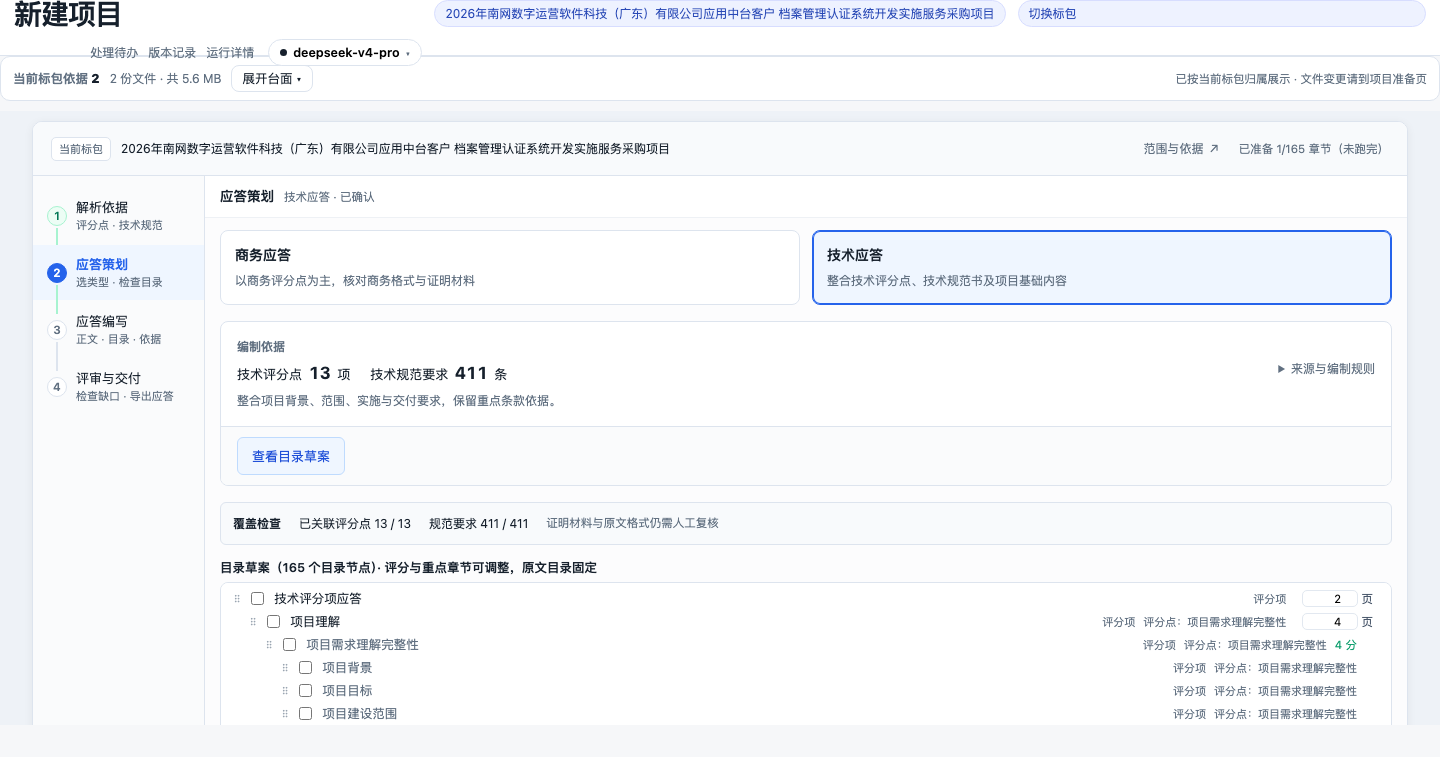
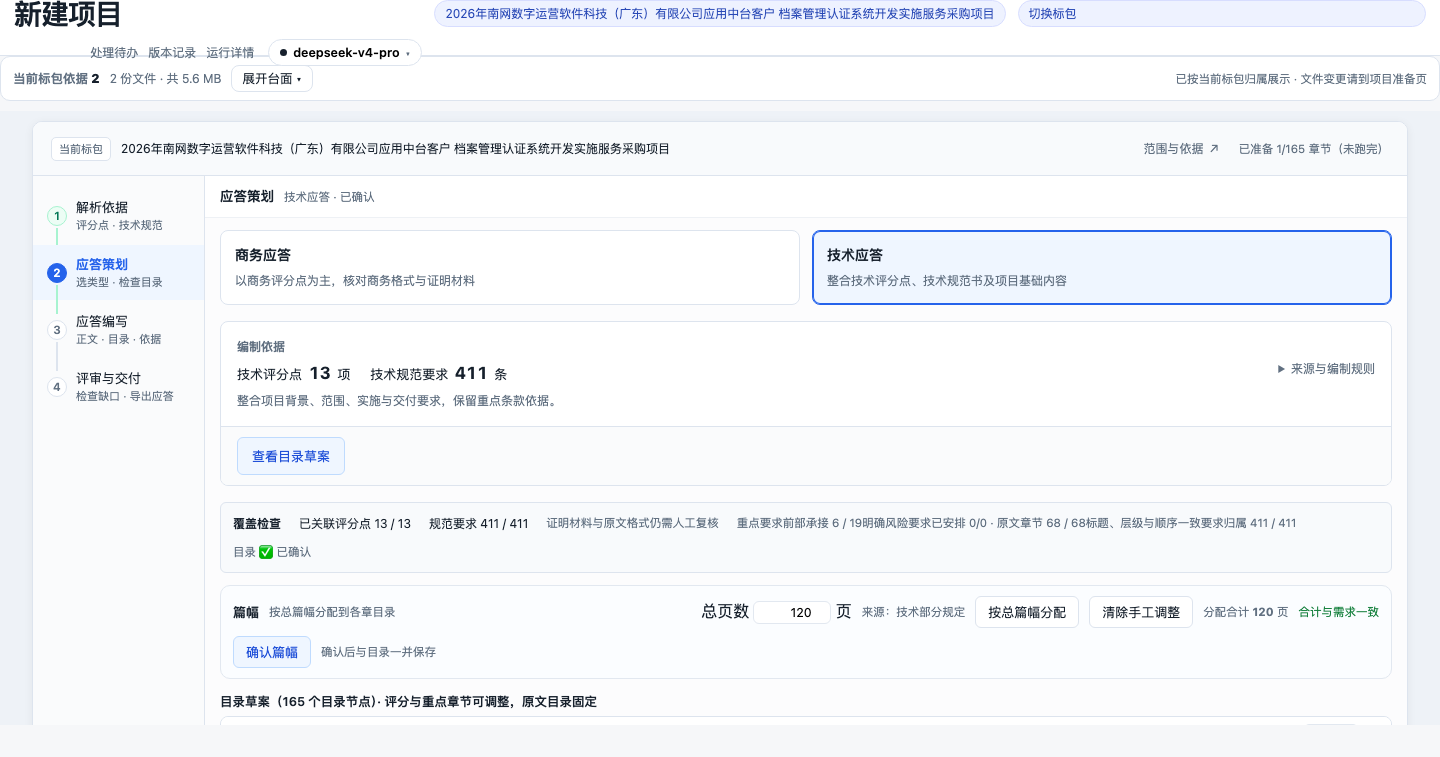
docs(design): 应答策划底部信息整合（PM 分析 + 落地）—— 篇幅上移、单一主操作、摘要合并
用户反馈：这一块信息很乱，要结合整页信息架构整合，做到结构清晰简洁；
篇幅的输出可以放在目录上面。

## 分析（三类信息被压成同一层卡片堆叠）
1. 双入口冲突：「目录已确认」卡带[进入技术应答编写]，下面又有[确认篇幅] —— 用户不知道点哪个算完
2. 同一结论说三遍：结构完整提示行 / 重点与点对点检查块 / 建议前部突出块
3. 篇幅条一行塞 8 件东西（总页数+来源+2 按钮+合计+校验+确认+说明）—— 与最早上传条"56px 塞 6 件事"同一毛病
4. 篇幅在目录下方，控制条与它管辖的 165 行隔了一屏，眼睛来回跳
5. 篇幅用 h5 小标题呈现，与上方卡片不同级，像"附属说明"而它其实是必须做的一步

## 落地（原型已改）
- **篇幅上移到目录之前**（实测 barTop 558 < dirTop 666），只留：总页数 + 来源 +
  按总篇幅分配 + 清除手工调整 + 分配合计 + 校验；页数仍落在目录每一行（165 行，18 行可填）
- **单一主操作随状态推进**：[确认篇幅] → 确认后隐藏它、显示产品原有的[进入技术应答编写]
  （未确认篇幅时该按钮不出现，消除双入口）
- **状态摘要只留一处**：把「重点与点对点检查」的 5 项事实并入「覆盖检查」一行，并补「目录 ✅ 已确认」

## 实测
篇幅在目录之上 ✅；确认篇幅前 [进入技术应答编写] 不可见、确认后出现 ✅；
覆盖检查行含 5 项事实 + 目录已确认 ✅；165 行列、18 行可编辑、合计 120 ✅；无 JS 错误

## 遗留（如实记录）
并入摘要的事实串分隔符只补了一半（"6 / 19明确风险…"仍粘连），是原型里的文案拼接问题，
正式实现时应由服务端结构化成字段渲染，而不是拼字符串。

Changed region(s): [[0.4688, 0.7596, 0.9688, 0.9723], [0.1562, 0.6988, 0.4375, 0.9723], [0.5, 0.6684, 0.9062, 0.6988]]

diff --git a/docs/design/mockups/prod-prototype.html b/docs/design/mockups/prod-prototype.html
@@ -9263,7 +9263,21 @@ GB/T 35274-2023《数据安全技术 大数据服务安全能力要求》
     <div class="response-coverage"><strong>覆盖检查</strong><span>已关联评分点 13 / 13</span><span>规范要求 411 / 411</span><span class="sr-dim">证明材料与原文格式仍需人工复核</span></div>
       
       
-      <h5 class="sr-sec">目录草案（165 个目录节点）· 评分与重点章节可调整，原文目录固定</h5>
+      
+      <div id="budgetBar" style="border:1px solid #e2e8f0;border-radius:10px;padding:10px 12px;margin:10px 0 12px;background:#fbfdff">
+        <div style="display:flex;align-items:center;gap:10px;flex-wrap:wrap">
+          <b style="font-size:13px">篇幅</b>
+          <span class="sr-dim">按总篇幅分配到各章目录</span>
+          <span style="flex:1"></span>
+          <span>总页数 <input type="number" id="totalPg" value="120" style="width:78px;font:inherit;font-size:12.5px;padding:3px 8px;border:1px solid #e2e8f0;border-radius:6px;text-align:right" /> 页</span>
+          <span class="sr-dim">来源：技术部分规定</span>
+          <button class="mw-btn" id="btnAlloc">按总篇幅分配</button>
+          <button class="mw-btn" id="btnResetAlloc">清除手工调整</button>
+          <span class="sr-dim" id="sumLine"></span>
+          <span class="sr-dim" id="sumBanner">合计与需求一致</span>
+        </div>
+      </div>
+<h5 class="sr-sec">目录草案（165 个目录节点）· 评分与重点章节可调整，原文目录固定</h5>
       <div class="sr-batch is-empty" id="sr-batch">
         <span class="sr-dim">已选 <b id="sr-batch-n">0</b> 项</span>
         <button class="sr-mini" data-batch="up">批量上移</button>
@@ -11925,21 +11939,7 @@ GB/T 35274-2023《数据安全技术 大数据服务安全能力要求》
       <details class="response-mapping"><summary>查看章节与原文依据映射</summary><div class="response-map-row"><strong>项目理解</strong><span>项目需求理解完整性</span><span class="sr-dim">0 条规范要求</span></div><div class="response-map-row"><strong>项目需求理解完整性</strong><span>项目需求理解完整性</span><span class="sr-dim">0 条规范要求</span></div><div class="response-map-row"><strong>项目背景</strong><span>项目需求理解完整性</span><span class="sr-dim">0 条规范要求</span></div><div class="response-map-row"><strong>项目目标</strong><span>项目需求理解完整性</span><span class="sr-dim">0 条规范要求</span></div><div class="response-map-row"><strong>项目建设范围</strong><span>项目需求理解完整性</span><span class="sr-dim">0 条规范要求</span></div><div class="response-map-row"><strong>项目需求及特点</strong><span>项目需求理解完整性</span><span class="sr-dim">0 条规范要求</span></div><div class="response-map-row"><strong>项目需求理解逻辑性、合理性</strong><span>项目需求理解逻辑性、合理性</span><span class="sr-dim">0 条规范要求</span></div><div class="response-map-row"><strong>项目需求理解逻辑性</strong><span>项目需求理解逻辑性、合理性</span><span class="sr-dim">0 条规范要求</span></div><div class="response-map-row"><strong>项目需求理解合理性</strong><span>项目需求理解逻辑性、合理性</span><span class="sr-dim">0 条规范要求</span></div><div class="response-map-row"><strong>项目背景认识</strong><span>项目需求理解逻辑性、合理性</span><span class="sr-dim">0 条规范要求</span></div><div class="response-map-row"><strong>项目目标认识</strong><span>项目需求理解逻辑性、合理性</span><span class="sr-dim">0 条规范要求</span></div><div class="response-map-row"><strong>建设范围认识</strong><span>项目需求理解逻辑性、合理性</span><span class="sr-dim">0 条规范要求</span></div><div class="response-map-row"><strong>项目需求及特点认识</strong><span>项目需求理解逻辑性、合理性</span><span class="sr-dim">0 条规范要求</span></div><div class="response-map-row"><strong>分析全面准确性</strong><span>项目需求理解逻辑性、合理性</span><span class="sr-dim">0 条规范要求</span></div><div class="response-map-row"><strong>描述清晰详细性</strong><span>项目需求理解逻辑性、合理性</span><span class="sr-dim">0 条规范要求</span></div><div class="response-map-row"><strong>项目重难点分析及解决方案的完整性</strong><span>项目重难点分析及解决方案的完整性</span><span class="sr-dim">0 条规范要求</span></div><div class="response-map-row"><strong>重点分析</strong><span>项目重难点分析及解决方案的完整性</span><span class="sr-dim">0 条规范要求</span></div><div class="response-map-row"><strong>难点分析</strong><span>项目重难点分析及解决方案的完整性</span><span class="sr-dim">0 条规范要求</span></div><div class="response-map-row"><strong>解决方案及措施</strong><span>项目重难点分析及解决方案的完整性</span><span class="sr-dim">0 条规范要求</span></div><div class="response-map-row"><strong>功能实现方案</strong><span>项目重难点分析及解决方案的完整性</span><span class="sr-dim">0 条规范要求</span></div><div class="response-map-row"><strong>项目重难点</strong><span>项目重难点</span><span class="sr-dim">0 条规范要求</span></div><div class="response-map-row"><strong>项目重难点分析</strong><span>项目重难点</span><span class="sr-dim">0 条规范要求</span></div><div class="response-map-row"><strong>解决方案</strong><span>项目重难点</span><span class="sr-dim">0 条规范要求</span></div><div class="response-map-row"><strong>方案科学性</strong><span>项目重难点</span><span class="sr-dim">0 条规范要求</span></div><div class="response-map-row"><strong>方案合理性</strong><span>项目重难点</span><span class="sr-dim">0 条规范要求</span></div><div class="response-map-row"><strong>方案先进性</strong><span>项目重难点</span><span class="sr-dim">0 条规范要求</span></div><div class="response-map-row"><strong>方案可靠性</strong><span>项目重难点</span><span class="sr-dim">0 条规范要求</span></div><div class="response-map-row"><strong>招标文件要求理解</strong><span>项目重难点</span><span class="sr-dim">0 条规范要求</span></div><div class="response-map-row"><strong>描述清晰详细</strong><span>项目重难点</span><span class="sr-dim">0 条规范要求</span></div><div class="response-map-row"><strong>项目进度计划</strong><span>进度计划及保障措施</span><span class="sr-dim">0 条规范要求</span></div><div class="response-map-row"><strong>进度计划及保障措施</strong><span>进度计划及保障措施</span><span class="sr-dim">0 条规范要求</span></div><div class="response-map-row"><strong>进度计划分解</strong><span>进度计划及保障措施</span><span class="sr-dim">0 条规范要求</span></div><div class="response-map-row"><strong>计划合理可行</strong><span>进度计划及保障措施</span><span class="sr-dim">0 条规范要求</span></div><div class="response-map-row"><strong>满足项目建设要求</strong><span>进度计划及保障措施</span><span class="sr-dim">0 条规范要求</span></div><div class="response-map-row"><strong>描述详细</strong><span>进度计划及保障措施</span><span class="sr-dim">0 条规范要求</span></div><div class="response-map-row"><strong>进度保障措施</strong><span>进度计划及保障措施</span><span class="sr-dim">0 条规范要求</span></div><div class="response-map-row"><strong>可操作性强</strong><span>进度计划及保障措施</span><span class="sr-dim">0 条规范要求</span></div><div class="response-map-row"><strong>项目团队人员</strong><span>团队人员学历情况</span><span class="sr-dim">0 条规范要求</span></div><div class="response-map-row"><strong>团队人员学历情况</strong><span>团队人员学历情况</span><span class="sr-dim">0 条规范要求</span></div><div class="response-map-row"><strong>项目团队本科及以上学历人数</strong><span>团队人员学历情况</span><span class="sr-dim">0 条规范要求</span></div><div class="response-map-row"><strong>连续6个月社保缴纳证明</strong><span>团队人员学历情况</span><span class="sr-dim">0 条规范要求</span></div><div class="response-map-row"><strong>学历、学位证书</strong><span>团队人员学历情况</span><span class="sr-dim">0 条规范要求</span></div><div class="response-map-row"><strong>学信网认证证明</strong><span>团队人员学历情况</span><span class="sr-dim">0 条规范要求</span></div><div class="response-map-row"><strong>学历真实性承诺</strong><span>团队人员学历情况</span><span class="sr-dim">0 条规范要求</span></div><div class="response-map-row"><strong>国（境）外学位证书</strong><span>团队人员学历情况</span><span class="sr-dim">0 条规范要求</span></div><div class="response-map-row"><strong>国外学历学位认证书</strong><span>团队人员学历情况</span><span class="sr-dim">0 条规范要求</span></div><div class="response-map-row"><strong>项目负责人</strong><span>项目负责人</span><span class="sr-dim">0 条规范要求</span></div><div class="response-map-row"><strong>项目负责人资格证书</strong><span>项目负责人</span><span class="sr-dim">0 条规范要求</span></div><div class="response-map-row"><strong>同类项目负责人经验</strong><span>项目负责人</span><span class="sr-dim">0 条规范要求</span></div><div class="response-map-row"><strong>项目负责人简历</strong><span>项目负责人</span><span class="sr-dim">0 条规范要求</span></div><div class="response-map-row"><strong>连续6个月社保证明</strong><span>项目负责人</span><span class="sr-dim">0 条规范要求</span></div><div class="response-map-row"><strong>相关项目合同证明文件</strong><span>项目负责人</span><span class="sr-dim">0 条规范要求</span></div><div class="response-map-row"><strong>团队其他成员相关经验情况</strong><span>团队其他成员相关经验情况</span><span class="sr-dim">0 条规范要求</span></div><div class="response-map-row"><strong>团队其他成员同类项目经验</strong><span>团队其他成员相关经验情况</span><span class="sr-dim">0 条规范要求</span></div><div class="response-map-row"><strong>同类项目经验界定</strong><span>团队其他成员相关经验情况</span><span class="sr-dim">0 条规范要求</span></div><div class="response-map-row"><strong>合同关键页复印件</strong><span>团队其他成员相关经验情况</span><span class="sr-dim">0 条规范要求</span></div><div class="response-map-row"><strong>合同关键页内容要素</strong><span>团队其他成员相关经验情况</span><span class="sr-dim">0 条规范要求</span></div><div class="response-map-row"><strong>甲方出具证明材料</strong><span>团队其他成员相关经验情况</span><span class="sr-dim">0 条规范要求</span></div><div class="response-map-row"><strong>项目团队其他成员资质证书情况</strong><span>项目团队其他成员资质证书情况</span><span class="sr-dim">0 条规范要求</span></div><div class="response-map-row"><strong>团队其他成员配置</strong><span>项目团队其他成员资质证书情况</span><span class="sr-dim">0 条规范要求</span></div><div class="response-map-row"><strong>一类资质证书</strong><span>项目团队其他成员资质证书情况</span><span class="sr-dim">0 条规范要求</span></div><div class="response-map-row"><strong>二类资质证书</strong><span>项目团队其他成员资质证书情况</span><span class="sr-dim">0 条规范要求</span></div><div class="response-map-row"><strong>证书证明材料</strong><span>项目团队其他成员资质证书情况</span><span class="sr-dim">0 条规范要求</span></div><div class="response-map-row"><strong>项目业绩</strong><span>经验案例</span><span class="sr-dim">0 条规范要求</span></div><div class="response-map-row"><strong>经验案例</strong><span>经验案例</span><span class="sr-dim">0 条规范要求</span></div><div class="response-map-row"><strong>近三年项目业绩</strong><span>经验案例</span><span class="sr-dim">0 条规范要求</span></div><div class="response-map-row"><strong>信息化领域同类型项目</strong><span>经验案例</span><span class="sr-dim">0 条规范要求</span></div><div class="response-map-row"><strong>项目金额规模</strong><span>经验案例</span><span class="sr-dim">0 条规范要求</span></div><div class="response-map-row"><strong>信息系统开发实施类项目</strong><span>经验案例</span><span class="sr-dim">0 条规范要求</span></div><div class="response-map-row"><strong>中标通知书</strong><span>经验案例</span><span class="sr-dim">0 条规范要求</span></div><div class="response-map-row"><strong>合同关键页扫描件</strong><span>经验案例</span><span class="sr-dim">0 条规范要求</span></div><div class="response-map-row"><strong>开发要求</strong><span>功能要求</span><span class="sr-dim">0 条规范要求</span></div><div class="response-map-row"><strong>功能要求</strong><span>功能要求</span><span class="sr-dim">0 条规范要求</span></div><div class="response-map-row"><strong>技术规范书功能要求响应</strong><span>功能要求</span><span class="sr-dim">0 条规范要求</span></div><div class="response-map-row"><strong>功能拓展或优化</strong><span>功能要求</span><span class="sr-dim">0 条规范要求</span></div><div class="response-map-row"><strong>优于项佐证材料</strong><span>功能要求</span><span class="sr-dim">0 条规范要求</span></div><div class="response-map-row"><strong>原型截图或测试报告</strong><span>功能要求</span><span class="sr-dim">0 条规范要求</span></div><div class="response-map-row"><strong>技术实现方案</strong><span>工作方案的完整性</span><span class="sr-dim">0 条规范要求</span></div><div class="response-map-row"><strong>工作方案的完整性</strong><span>工作方案的完整性</span><span class="sr-dim">0 条规范要求</span></div><div class="response-map-row"><strong>代码编写</strong><span>工作方案的完整性</span><span class="sr-dim">0 条规范要求</span></div><div class="response-map-row"><strong>测试工作</strong><span>工作方案的完整性</span><span class="sr-dim">0 条规范要求</span></div><div class="response-map-row"><strong>集成工作</strong><span>工作方案的完整性</span><span class="sr-dim">0 条规范要求</span></div><div class="response-map-row"><strong>技术质量管理方案</strong><span>工作方案的完整性</span><span class="sr-dim">0 条规范要求</span></div><div class="response-map-row"><strong>工作方案的科学性、合理性、先进性、可靠性</strong><span>工作方案的科学性、合理性、先进性、可靠性</span><span class="sr-dim">0 条规范要求</span></div><div class="response-map-row"><strong>项目技术工作方案</strong><span>工作方案的科学性、合理性、先进性、可靠性</span><span class="sr-dim">0 条规范要求</span></div><div class="response-map-row"><strong>方案科学性</strong><span>工作方案的科学性、合理性、先进性、可靠性</span><span class="sr-dim">0 条规范要求</span></div><div class="response-map-row"><strong>方案合理性</strong><span>工作方案的科学性、合理性、先进性、可靠性</span><span class="sr-dim">0 条规范要求</span></div><div class="response-map-row"><strong>方案先进性</strong><span>工作方案的科学性、合理性、先进性、可靠性</span><span class="sr-dim">0 条规范要求</span></div><div class="response-map-row"><strong>方案可靠性</strong><span>工作方案的科学性、合理性、先进性、可靠性</span><span class="sr-dim">0 条规范要求</span></div><div class="response-map-row"><strong>项目技术要求响应</strong><span>工作方案的科学性、合理性、先进性、可靠性</span><span class="sr-dim">0 条规范要求</span></div><div class="response-map-row"><strong>技术成熟度</strong><span>工作方案的科学性、合理性、先进性、可靠性</span><span class="sr-dim">0 条规范要求</span></div><div class="response-map-row"><strong>方案可扩展性</strong><span>工作方案的科学性、合理性、先进性、可靠性</span><span class="sr-dim">0 条规范要求</span></div><div class="response-map-row"><strong>7. 其他</strong><span>工作方案的科学性、合理性、先进性、可靠性</span><span class="sr-dim">1 条规范要求</span></div><div class="response-map-row"><strong>3.4.2. ★自主可控要求</strong><span>技术规范要求</span><span class="sr-dim">5 条规范要求</span></div><div class="response-map-row"><strong>1.2.2. 计划工期</strong><span>技术规范要求</span><span class="sr-dim">1 条规范要求</span></div><div class="response-map-row"><strong>1.3. 对技术投标文件的编制要求</strong><span>技术规范要求</span><span class="sr-dim">1 条规范要求</span></div><div class="response-map-row"><strong>一、综述</strong><span>技术规范要求</span><span class="sr-dim">1 条规范要求</span></div><div class="response-map-row"><strong>二、工作方案</strong><span>技术规范要求</span><span class="sr-dim">1 条规范要求</span></div><div class="response-map-row"><strong>三、售后服务及技术支持</strong><span>技术规范要求</span><span class="sr-dim">1 条规范要求</span></div><div class="response-map-row"><strong>四、项目管理</strong><span>技术规范要求</span><span class="sr-dim">9 条规范要求</span></div><div class="response-map-row"><strong>五、其他</strong><span>技术规范要求</span><span class="sr-dim">3 条规范要求</span></div><div class="response-map-row"><strong>2.3. 项目范围</strong><span>技术规范要求</span><span class="sr-dim">1 条规范要求</span></div><div class="response-map-row"><strong>2.4. 项目依据</strong><span>技术规范要求</span><span class="sr-dim">1 条规范要求</span></div><div class="response-map-row"><strong>3. 项目服务内容及要求</strong><span>技术规范要求</span><span class="sr-dim">4 条规范要求</span></div><div class="response-map-row"><strong>3.2. 功能要求</strong><span>技术规范要求</span><span class="sr-dim">1 条规范要求</span></div><div class="response-map-row"><strong>3.2.1. 客户档案管理模块</strong><span>技术规范要求</span><span class="sr-dim">141 条规范要求</span></div><div class="response-map-row"><strong>3.2.2. 客户标签管理模块</strong><span>技术规范要求</span><span class="sr-dim">75 条规范要求</span></div><div class="response-map-row"><strong>3.2.3. 客户全景视图管理模块</strong><span>技术规范要求</span><span class="sr-dim">54 条规范要求</span></div><div class="response-map-row"><strong>3.2.4. 客户行为管理模块</strong><span>技术规范要求</span><span class="sr-dim">18 条规范要求</span></div><div class="response-map-row"><strong>3.2.5. 客户认证管理模块</strong><span>技术规范要求</span><span class="sr-dim">6 条规范要求</span></div><div class="response-map-row"><strong>3.2.6. 客户关系管理模块</strong><span>技术规范要求</span><span class="sr-dim">44 条规范要求</span></div><div class="response-map-row"><strong>3.2.7. 业务档案管理模块</strong><span>技术规范要求</span><span class="sr-dim">9 条规范要求</span></div><div class="response-map-row"><strong>3.4.1. 技术管控要求</strong><span>技术规范要求</span><span class="sr-dim">1 条规范要求</span></div><div class="response-map-row"><strong>3.4.2. ★自主可控要求</strong><span>技术规范要求</span><span class="sr-dim">5 条规范要求</span></div><div class="response-map-row"><strong>4. 项目实施</strong><span>技术规范要求</span><span class="sr-dim">4 条规范要求</span></div><div class="response-map-row"><strong>4.1. 组织保障要求</strong><span>技术规范要求</span><span class="sr-dim">1 条规范要求</span></div><div class="response-map-row"><strong>4.2. 项目组织人员要求</strong><span>技术规范要求</span><span class="sr-dim">1 条规范要求</span></div><div class="response-map-row"><strong>4.2.1. 项目经理要求</strong><span>技术规范要求</span><span class="sr-dim">1 条规范要求</span></div><div class="response-map-row"><strong>4.2.2. 项目服务团队要求</strong><span>技术规范要求</span><span class="sr-dim">1 条规范要求</span></div><div class="response-map-row"><strong>4.3.1. 总体进度要求</strong><span>技术规范要求</span><span class="sr-dim">1 条规范要求</span></div><div class="response-map-row"><strong>4.3.2. 进度管理要求</strong><span>技术规范要求</span><span class="sr-dim">2 条规范要求</span></div><div class="response-map-row"><strong>4.4.1. 项目例会</strong><span>技术规范要求</span><span class="sr-dim">1 条规范要求</span></div><div class="response-map-row"><strong>4.4.2. 项目联络会</strong><span>技术规范要求</span><span class="sr-dim">1 条规范要求</span></div><div class="response-map-row"><strong>4.5. 质量要求</strong><span>技术规范要求</span><span class="sr-dim">1 条规范要求</span></div><div class="response-map-row"><strong>4.6.1. 验收标准</strong><span>技术规范要求</span><span class="sr-dim">1 条规范要求</span></div><div class="response-map-row"><strong>4.6.2. 验收方法</strong><span>技术规范要求</span><span class="sr-dim">1 条规范要求</span></div><div class="response-map-row"><strong>4.6.3. 初步验收</strong><span>技术规范要求</span><span class="sr-dim">1 条规范要求</span></div><div class="response-map-row"><strong>4.6.4. 竣工验收</strong><span>技术规范要求</span><span class="sr-dim">1 条规范要求</span></div><div class="response-map-row"><strong>4.8.1. 培训要求</strong><span>技术规范要求</span><span class="sr-dim">1 条规范要求</span></div><div class="response-map-row"><strong>4.8.2. 培训方式</strong><span>技术规范要求</span><span class="sr-dim">3 条规范要求</span></div><div class="response-map-row"><strong>4.8.3. 现场培训</strong><span>技术规范要求</span><span class="sr-dim">1 条规范要求</span></div><div class="response-map-row"><strong>4.8.4. 其他培训要求</strong><span>技术规范要求</span><span class="sr-dim">1 条规范要求</span></div><div class="response-map-row"><strong>5. 项目售后服务和技术支持</strong><span>技术规范要求</span><span class="sr-dim">1 条规范要求</span></div><div class="response-map-row"><strong>5.1. 售后服务总体要求</strong><span>技术规范要求</span><span class="sr-dim">1 条规范要求</span></div><div class="response-map-row"><strong>5.2. 应急预案</strong><span>技术规范要求</span><span class="sr-dim">1 条规范要求</span></div><div class="response-map-row"><strong>5.4.1. 技术维护支持服务</strong><span>技术规范要求</span><span class="sr-dim">1 条规范要求</span></div><div class="response-map-row"><strong>5.4.2. 维护工具</strong><span>技术规范要求</span><span class="sr-dim">1 条规范要求</span></div><div class="response-map-row"><strong>6. 安全保密要求</strong><span>技术规范要求</span><span class="sr-dim">1 条规范要求</span></div><div class="response-map-row"><strong>6.1. 个人信息提供</strong><span>技术规范要求</span><span class="sr-dim">1 条规范要求</span></div><div class="response-map-row"><strong>6.2. 行为规范</strong><span>技术规范要求</span><span class="sr-dim">1 条规范要求</span></div><div class="response-map-row"><strong>7. 其他</strong><span>技术规范要求</span><span class="sr-dim">1 条规范要求</span></div><div class="response-map-row"><strong>8. 效力说明</strong><span>技术规范要求</span><span class="sr-dim">1 条规范要求</span></div></details>
       <div class="response-confirm-bar"><div><strong>目录已确认</strong><span>可直接进入编写，随时查看目录与依据</span></div><button class="mw-btn primary" data-act="response-write">进入技术应答编写</button></div><div class="response-confirm-feedback" data-confirm-feedback="" role="status" aria-live="polite" hidden=""></div>
     <div class="response-coverage"><strong>重点与点对点检查</strong><span>重点要求前部承接 6 / 19</span><span>明确风险要求已安排 0 / 0</span><span>原文章节 68 / 68</span><span>标题、层级与顺序一致</span><span>要求归属 411 / 411</span><span class="sr-dim">仅检查承接位置，正文响应质量待编写后核对。</span></div><details class="response-landing-warning"><summary>建议前部突出 13 条重点要求 · 不影响确认</summary><p>以下要求已在点对点应答中安排，可结合评分章节补充说明，无需恢复原来的独立章节。</p><ul><li>1. 总则 &gt; 1.3. 对技术投标文件的编制要求</li><li>1. 总则 &gt; 1.3. 对技术投标文件的编制要求 &gt; 五、其他 · 第 1 条</li><li>2. 项目描述 &gt; 2.4. 项目依据</li><li>4. 项目实施 &gt; 4.1. 组织保障要求</li><li>4. 项目实施 &gt; 4.2. 项目组织人员要求 &gt; 4.2.1. 项目经理要求</li><li>4. 项目实施 &gt; 4.2. 项目组织人员要求 &gt; 4.2.2. 项目服务团队要求 · 第 1 条</li><li>4. 项目实施 &gt; 4.4. 联络会议 &gt; 4.4.2. 项目联络会</li><li>4. 项目实施 &gt; 4.5. 质量要求</li><li>4. 项目实施 &gt; 4.6. 项目验收要求 &gt; 4.6.1. 验收标准</li><li>5. 项目售后服务和技术支持 &gt; 5.1. 售后服务总体要求</li><li>5. 项目售后服务和技术支持 &gt; 5.2. 应急预案</li><li>5. 项目售后服务和技术支持 &gt; 5.4. 技术维护支持 &gt; 5.4.1. 技术维护支持服务</li><li>6. 安全保密要求 &gt; 6.2. 行为规范</li></ul></details>
-    
-      <h5 class="sr-sec" id="budgetSec">篇幅</h5>
-      <div class="sr-note">按总篇幅分配到各章目录；可直接改某一章的页数，改过的章节保持不动。</div>
-      <div class="sr-answer" style="gap:10px;flex-wrap:wrap;align-items:center">
-        <span>总页数 <input type="number" id="totalPg" value="120" style="width:80px;font:inherit;font-size:12.5px;padding:3px 8px;border:1px solid #e2e8f0;border-radius:6px;text-align:right" /> 页</span>
-        <span class="sr-dim">来源：招标文件技术部分规定</span>
-        <button class="mw-btn" id="btnAlloc">按总篇幅分配</button>
-        <button class="mw-btn" id="btnResetAlloc">清除手工调整</button>
-        <span class="sr-dim" id="sumLine"></span>
-        <span class="sr-dim" id="sumBanner">合计与需求一致</span>
-        <span style="flex:1"></span>
-        <button class="mw-btn primary" id="btnConfirmBudget">确认篇幅</button>
-        <span class="sr-dim" id="budgetNote">确认后与目录一并保存</span>
-      </div>
-<div class="sr-dim" data-flash-for="generate"></div></div>
+    <div class="sr-dim" data-flash-for="generate"></div></div>
           </div>
           <div class="sr-stage on" data-stage="4">
             <div class="sr-stage-head"><span class="t">应答编写</span><span class="hint">按章编制 · 图文表统一导出</span></div>
@@ -15172,7 +15172,6 @@ GB/T 35274-2023《数据安全技术 大数据服务安全能力要求》
 <input type="file" accept=".pdf,.docx,.doc,.ppt,.pptx" multiple="" style="display: none;"><script>
 (function(){
   var $=function(id){return document.getElementById(id);};
-  /* 阶段切换（快照已剥离应用 JS） */
   function activate(stage){
     document.querySelectorAll('.sr-rail-item').forEach(function(el){ el.classList.toggle('on', el.getAttribute('data-stage')===stage); });
     document.querySelectorAll('.sr-stage').forEach(function(el){ el.classList.toggle('on', el.getAttribute('data-stage')===stage); });
@@ -15180,11 +15179,44 @@ GB/T 35274-2023《数据安全技术 大数据服务安全能力要求》
   document.querySelectorAll('.sr-rail-item').forEach(function(el){
     el.addEventListener('click', function(){ activate(el.getAttribute('data-stage')); }); });
 
-  /* ══ 篇幅：直接在真实目录行上加一列页数 ══ */
+  /* ── 状态摘要整合：把"重点与点对点检查"与"建议前部突出"并入覆盖检查一行 ── */
+  function mergeSummary(){
+    var cov = document.querySelector('.response-coverage');
+    var box = document.querySelector('.sr-stage[data-stage="2"]');
+    if(!cov || !box) return;
+    var labels=['重点与点对点检查','建议前部突出'];
+    var facts='';
+    labels.forEach(function(lab){
+      // 找"自己文本以该标签开头、且内部没有同样开头元素"的最外层块
+      var best=null;
+      box.querySelectorAll('div,section,p').forEach(function(el){
+        var t=(el.textContent||'').replace(/\s+/g,'');
+        if(t.indexOf(lab)<0 || t.indexOf(lab)>3) return;   // 容错：可能带 ▶ 之类前缀
+        var nested=false;
+        el.querySelectorAll('div,section,p').forEach(function(c){
+          var ct=(c.textContent||'').replace(/\s+/g,''); if(ct.indexOf(lab)>=0 && ct.indexOf(lab)<=3) nested=true;
+        });
+        if(!nested && !best) best=el;
+      });
+      if(!best) return;
+      var raw=(best.textContent||'').replace(/\s+/g,' ').trim();
+      if(lab==='重点与点对点检查'){
+        facts = raw.replace(lab,'').replace(/仅检查承接位置.*$/,'').trim();
+        // 指标之间补分隔符，避免"6/19明确风险…"糊成一串
+        facts = facts.replace(/(\d)\s*\/\s*(\d)(?=[一-龥])/g, '$1/$2 · ');
+      }
+      best.style.display='none';
+      best.setAttribute('data-merged','1');
+    });
+    if(facts) cov.insertAdjacentHTML('beforeend','<span class="sr-dim">'+facts+'</span>');
+    cov.insertAdjacentHTML('beforeend','<span class="sr-dim">目录 ✅ 已确认</span>');
+  }
+
+  /* ── 篇幅：目录行内一列 + 状态驱动的主操作 ── */
   var KIND={'技术评分项应答':1.2,'项目理解':0.7,'项目进度计划':1.0,'项目团队人员':0.9,'项目业绩':1.0,
     '开发要求':1.2,'技术实现方案':1.4,'重点及必须响应要求':1.1,'技术规范书点对点应答':1.3,
     '1.总则':0.6,'2.项目描述':0.8,'3.项目服务内容及要求':1.0,'4.项目实施':1.0};
-  var rows=[];
+  var rows=[], confirmed=false;
   function collect(){
     rows=[];
     document.querySelectorAll('.sr-stage[data-stage="2"] .sr-erow').forEach(function(el,idx){
@@ -15193,18 +15225,14 @@ GB/T 35274-2023《数据安全技术 大数据服务安全能力要求》
       var cell=document.createElement('span');
       cell.className='sr-erow-pages';
       cell.style.cssText='font-size:11.5px;color:#475569;padding:0 8px;white-space:nowrap;font-variant-numeric:tabular-nums';
-      var acts=el.querySelector('.sr-erow-acts');
-      if(acts) el.insertBefore(cell,acts); else el.appendChild(cell);
-      rows.push({el:el,cell:cell,name:t,level:lvl,idx:idx,
-        score: lvl<=2 ? (4+((rows.length*7)%22)) : 0,
-        alloc: lvl<=2, mine:0, pinned:false});
+      var acts=el.querySelector('.sr-erow-acts'); if(acts) el.insertBefore(cell,acts); else el.appendChild(cell);
+      rows.push({el:el,cell:cell,name:t,level:lvl,idx:idx,score:lvl<=2?(4+((rows.length*7)%22)):0,alloc:lvl<=2,mine:0,pinned:false});
     });
   }
-  var allocatable=function(){ return rows.filter(function(r){return r.alloc && r.name;}); };
-  function kindOf(r){ return KIND[r.name]||1.0; }
+  var listAlloc=function(){ return rows.filter(function(r){return r.alloc && r.name;}); };
+  var kindOf=function(r){ return KIND[r.name]||1.0; };
   function allocate(reset){
-    var list=allocatable();
-    if(reset) list.forEach(function(r){ r.pinned=false; });
+    var list=listAlloc(); if(reset) list.forEach(function(r){ r.pinned=false; });
     var total=Number($('totalPg').value||0);
     var free=list.filter(function(r){return !r.pinned;});
     var rest=Math.max(0,total-list.filter(function(r){return r.pinned;}).reduce(function(n,r){return n+r.mine;},0));
@@ -15220,32 +15248,38 @@ GB/T 35274-2023《数据安全技术 大数据服务安全能力要求》
   function render(){
     rows.forEach(function(r){
       if(!r.alloc){ r.cell.textContent=''; return; }
-      var span=document.createElement('span');
-      span.textContent='';
-      r.cell.innerHTML='<input type="number" value="'+r.mine+'" data-idx="'+r.idx+'" style="width:56px;font:inherit;font-size:11.5px;padding:1px 5px;border:1px solid #e2e8f0;border-radius:5px;text-align:right" /> 页'
-        + (r.pinned?' <span class="ui-pill is-ok">已调整</span>':'');
-      r.cell.querySelector('input').addEventListener('click',function(e){e.stopPropagation();});
-      r.cell.querySelector('input').addEventListener('change',function(e){
-        e.stopPropagation();
-        r.mine=Number(e.target.value)||0; r.pinned=true; allocate(false);
-      });
+      r.cell.innerHTML='<input type="number" value="'+r.mine+'" data-idx="'+r.idx+'" style="width:54px;font:inherit;font-size:11.5px;padding:1px 5px;border:1px solid #e2e8f0;border-radius:5px;text-align:right" /> 页'+(r.pinned?' <span class="ui-pill is-ok">已调整</span>':'');
+      var inp=r.cell.querySelector('input');
+      inp.addEventListener('click',function(e){e.stopPropagation();});
+      inp.addEventListener('change',function(e){ e.stopPropagation(); r.mine=Number(e.target.value)||0; r.pinned=true; allocate(false); });
     });
-    var list=allocatable();
-    var sum=list.reduce(function(n,r){return n+r.mine;},0);
-    var total=Number($('totalPg').value||0);
-    $('sumLine').innerHTML='分配合计 <b>'+sum+'</b> 页 / 共 '+list.length+' 章';
+    var list=listAlloc(), sum=list.reduce(function(n,r){return n+r.mine;},0), total=Number($('totalPg').value||0);
+    $('sumLine').innerHTML='分配合计 <b>'+sum+'</b> 页';
     var b=$('sumBanner');
-    b.textContent = sum===total ? '合计与需求一致' : ('⚠ 与需求相差 '+(sum-total>0?'+':'')+(sum-total)+' 页');
-    b.style.color = sum===total ? '#15803d' : '#b45309';
+    b.textContent = sum===total?'合计与需求一致':('⚠ 相差 '+(sum-total>0?'+':'')+(sum-total)+' 页');
+    b.style.color = sum===total?'#15803d':'#b45309';
+    var ok = sum===total;
+    $('btnConfirmBudget').style.display = (confirmed||!ok)?'none':'inline-block';
+    $('budgetDone').style.display = confirmed?'inline':'none';
+    var writeBtn=document.querySelector('[data-act="response-write"]');
+    if(writeBtn){ writeBtn.style.display = confirmed?'inline-block':'none'; }
   }
+  /* 唯一主操作：确认篇幅（放在篇幅控制条内） */
+  var bar=$('budgetBar');
+  bar.insertAdjacentHTML('beforeend','<div style="margin-top:8px;display:flex;align-items:center;gap:10px;flex-wrap:wrap">'+
+    '<button class="mw-btn primary" id="btnConfirmBudget">确认篇幅</button>'+
+    '<span class="sr-dim" id="budgetDone" style="display:none;color:#15803d">✅ 篇幅已确认；可进入技术应答编写</span>'+
+    '<span class="sr-dim" id="budgetNote">确认后与目录一并保存</span></div>');
   $('totalPg').addEventListener('input',function(){ allocate(false); });
   $('btnAlloc').addEventListener('click',function(){ allocate(false); });
   $('btnResetAlloc').addEventListener('click',function(){ allocate(true); });
   $('btnConfirmBudget').addEventListener('click',function(){
-    $('budgetNote').innerHTML='<span style="color:#15803d">✅ 已确认篇幅</span>'; });
-  collect(); allocate(true);
+    confirmed=true; $('budgetNote').textContent=''; render();
+    var w=document.querySelector('[data-act="response-write"]'); if(w) w.scrollIntoView({block:'center'});
+  });
+  collect(); allocate(true); mergeSummary();
 
-  /* ══ 编写：块级正文 / 计划预览 / 完成检查 ══ */
+  /* ── 编写阶段：块级正文 / 计划预览 / 完成检查 ── */
   var BLOCKS=[
     {role:'方案',color:'#1d4ed8',text:'拟实施项目中，营销管理应用作为公司市场营销业务支撑平台，自 2015 年投产上线以来已持续运行十年，全面承载全网市场营销业务。',src:'L1 本章原文内容 · 技术规范书 3.2',by:'ai'},
     {role:'证据',color:'#15803d',text:'平台当前覆盖五省区合计 1.2 亿电力客户，并保障超过 10 万名营销从业人员开展日常业务办理。',src:'L1 凭证级 · 实测参数（已核验）',by:'ai'},
@@ -15256,7 +15290,7 @@ GB/T 35274-2023《数据安全技术 大数据服务安全能力要求》
     {role:'承诺',color:'#c2410c',text:'［待补］近三年同类项目业绩 3 项',src:'❌ 缺 · 应从「政府采购中标公示」查（已接入）',by:'todo'}
   ];
   function pill(t,bg,fg){ return '<span style="font-size:11px;padding:1px 7px;border-radius:5px;background:'+bg+';color:'+fg+';font-weight:600">'+t+'</span>'; }
-  function renderBlocks(){
+  (function renderBlocks(){
     var box=$('blockView'); if(!box) return;
     $('segCount').textContent=BLOCKS.length;
     $('nAi').textContent=BLOCKS.filter(function(b){return !b.table&&b.by==='ai';}).length;
@@ -15265,17 +15299,12 @@ GB/T 35274-2023《数据安全技术 大数据服务安全能力要求》
     $('nTable').textContent=BLOCKS.filter(function(b){return b.table;}).length;
     var html='<div class="sr-note" style="margin-bottom:10px">正文按块渲染：段落带角色与来源，表格按真表格呈现（原型演示内容）。</div>';
     BLOCKS.forEach(function(b){
-      if(b.table){ html+='<div style="font-size:12px;color:#334155;font-weight:600;margin:10px 0 2px">'+b.title+'</div><table class="sr-table"><thead><tr>'+
-        b.head.map(function(x){return '<th>'+x+'</th>';}).join('')+'</tr></thead><tbody>'+
-        b.rows.map(function(r){return '<tr>'+r.map(function(x){return '<td>'+x+'</td>';}).join('')+'</tr>';}).join('')+'</tbody></table>'; return; }
+      if(b.table){ html+='<div style="font-size:12px;color:#334155;font-weight:600;margin:10px 0 2px">'+b.title+'</div><table class="sr-table"><thead><tr>'+b.head.map(function(x){return '<th>'+x+'</th>';}).join('')+'</tr></thead><tbody>'+b.rows.map(function(r){return '<tr>'+r.map(function(x){return '<td>'+x+'</td>';}).join('')+'</tr>';}).join('')+'</tbody></table>'; return; }
       var by=b.by==='ai'?pill('AI 生成','#ecfdf5','#15803d'):b.by==='human'?pill('人工修改 ✎','#fffbeb','#b45309'):pill('未编制','#fef2f2','#b91c1c');
-      html+='<div style="border-left:3px solid '+(b.warn?'#fde68a':'#e2e8f0')+';padding:7px 0 7px 11px;margin-bottom:9px;font-size:12.5px">'+
-        '<span style="font-size:11px;font-weight:600;padding:1px 7px;border-radius:5px;background:#f1f5f9;color:'+b.color+';margin-right:6px">'+b.role+'</span>'+b.text+
-        '<div style="font-size:11px;color:#64748b;margin-top:3px;display:flex;gap:8px;flex-wrap:wrap">'+by+'<span>来源：'+b.src+'</span></div></div>';
+      html+='<div style="border-left:3px solid '+(b.warn?'#fde68a':'#e2e8f0')+';padding:7px 0 7px 11px;margin-bottom:9px;font-size:12.5px"><span style="font-size:11px;font-weight:600;padding:1px 7px;border-radius:5px;background:#f1f5f9;color:'+b.color+';margin-right:6px">'+b.role+'</span>'+b.text+'<div style="font-size:11px;color:#64748b;margin-top:3px;display:flex;gap:8px;flex-wrap:wrap">'+by+'<span>来源：'+b.src+'</span></div></div>';
     });
     box.innerHTML=html;
-  }
-  renderBlocks();
+  })();
   var ai=document.querySelector('[data-action="ai"]');
   if(ai) ai.addEventListener('click',function(){ var b=$('planBox'); b.style.display=b.style.display==='none'?'block':'none';
     b.innerHTML='<b>本章编制计划</b><div>预计 5 个任务：现状分析 / 方案描述 / 2 张架构表 / 1 张部署图</div><div>预计 11,250 字 ≈ 45 页 ｜ 需要 3 类证据</div><div style="margin-top:7px"><button class="mw-btn primary">确认后开始编制</button><span style="color:#64748b;margin-left:8px">如不需要可取消</span></div>'; });
